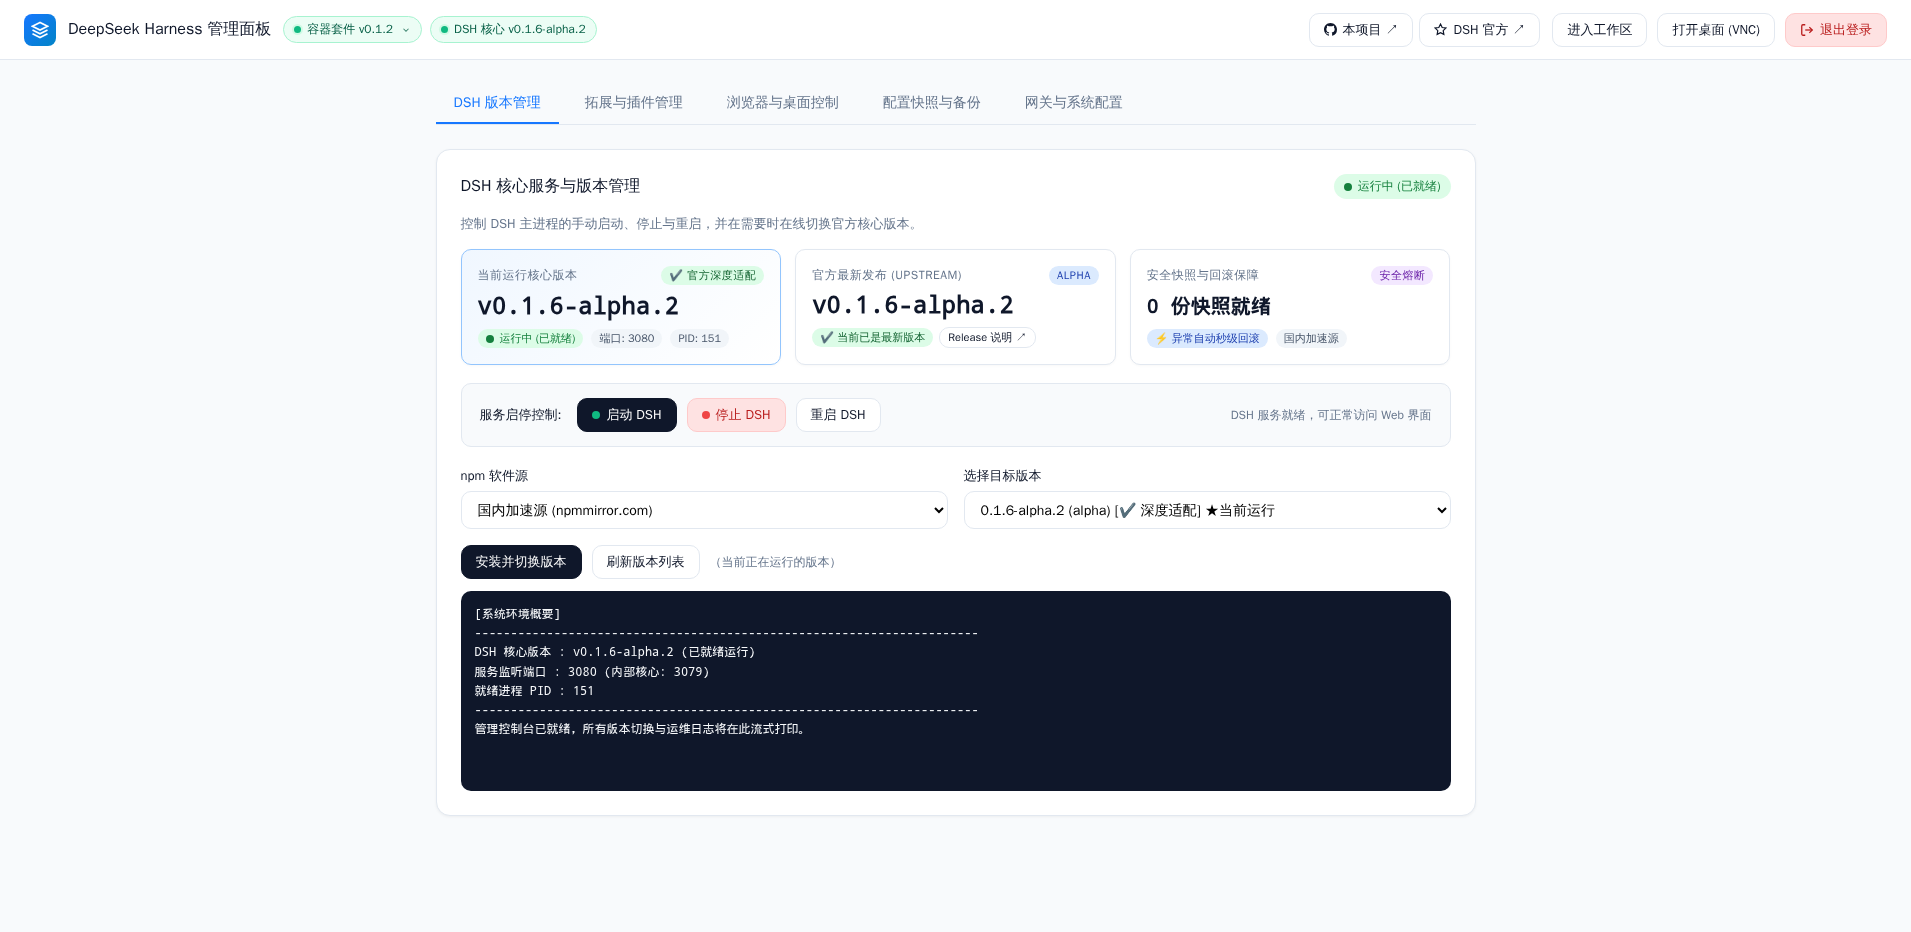
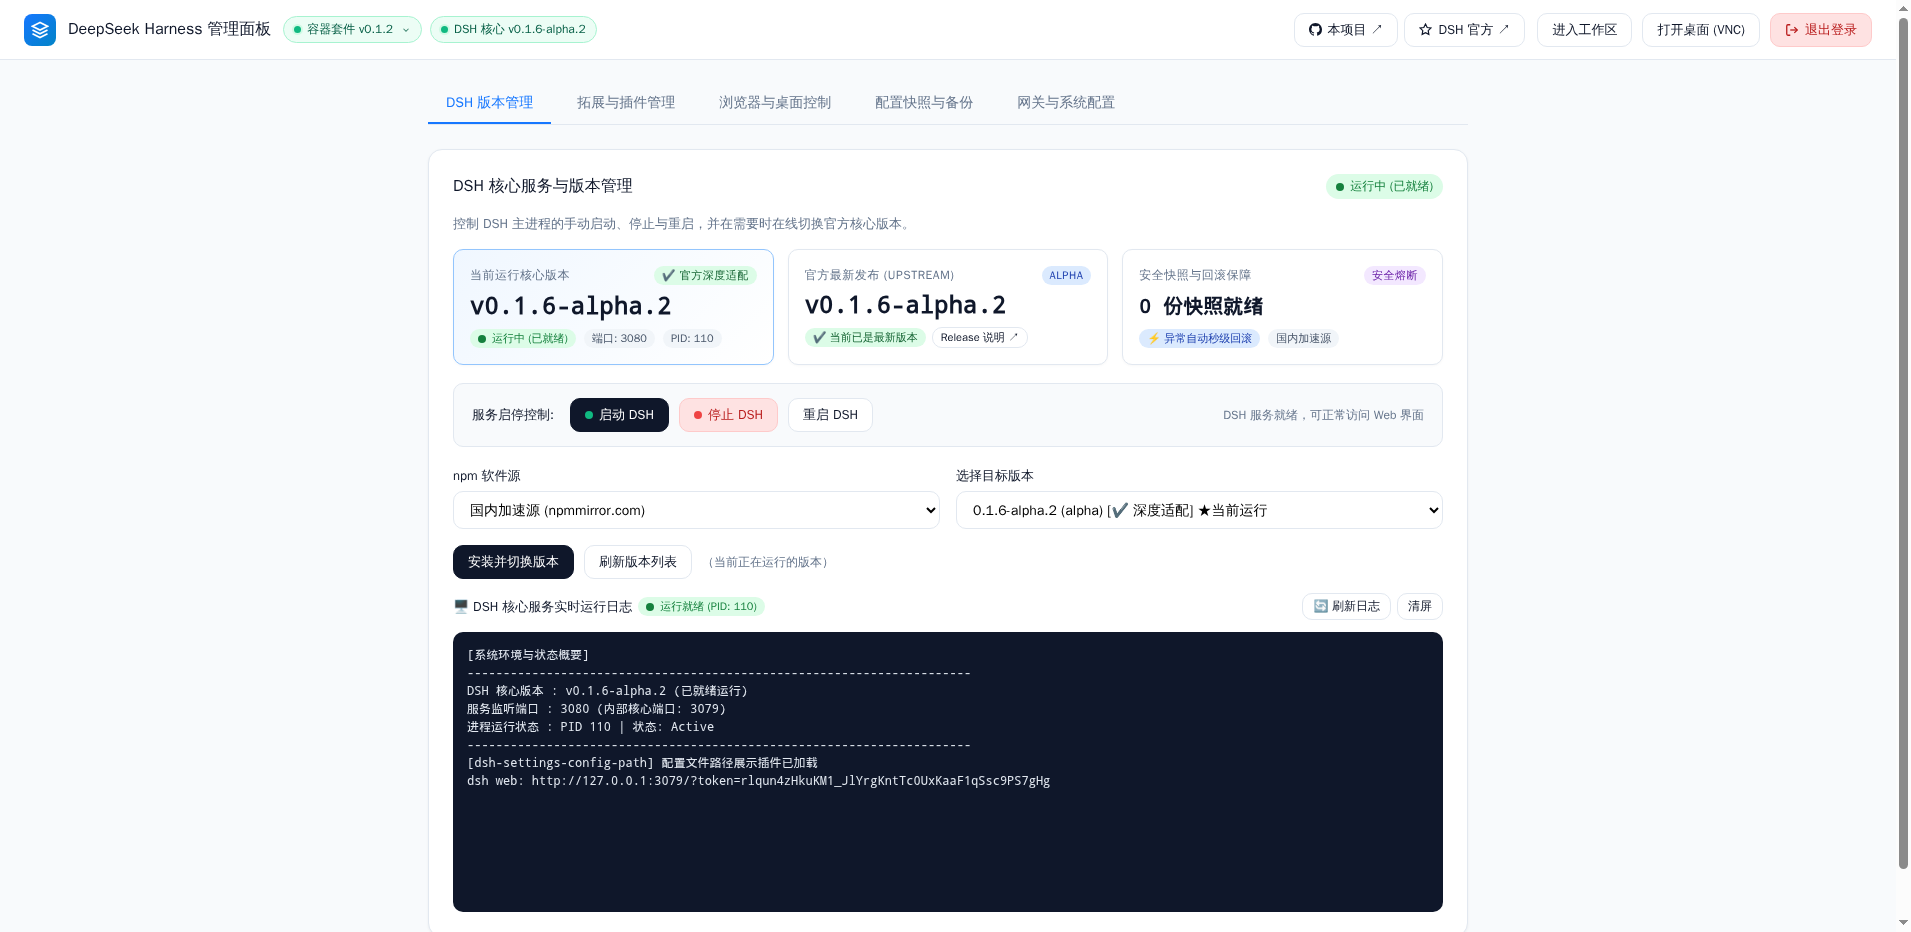
fix: add real-time DSH logs in admin, resolve container build install-scripts and refine modal layout with scrollbars

diff --git a/gateway/index.js b/gateway/index.js
@@ -101,11 +101,43 @@ const vncProxy = httpProxy.createProxyServer({
 dshProxy.on('error', (err, req, res) => {
   console.warn('[dsh-proxy] 上游连接等待中 (DSH 启动/停止阶段):', err.message);
   if (res && typeof res.writeHead === 'function' && !res.headersSent) {
-    const errorMsg = dshManager.manualStopped
-      ? 'DeepSeek Harness 服务当前处于手动停止状态。如需使用，请前往管理面板手动点击【启动 DSH】。'
-      : 'DeepSeek Harness 正在启动就绪中，请稍候数秒后刷新';
-    res.writeHead(502, { 'Content-Type': 'application/json; charset=utf-8' });
-    res.end(JSON.stringify({ ok: false, error: errorMsg }));
+    let errorMsg = 'DeepSeek Harness 正在启动就绪中，请稍候数秒后刷新';
+    if (dshManager.manualStopped) {
+      errorMsg = 'DeepSeek Harness 服务当前处于手动停止状态。如需使用，请前往管理面板手动点击【启动 DSH】。';
+    } else if (dshManager.lastExitInfo && !dshManager.proc) {
+      errorMsg = `DeepSeek Harness 启动异常退出 (代码: ${dshManager.lastExitInfo.code || -1})。请前往 /admin/ 查看详细日志排查。`;
+    }
+
+    const isHtml = (req.headers.accept || '').includes('text/html');
+    if (isHtml) {
+      res.writeHead(502, { 'Content-Type': 'text/html; charset=utf-8' });
+      res.end(`<!DOCTYPE html>
+<html>
+<head>
+  <meta charset="utf-8" />
+  <meta name="viewport" content="width=device-width, initial-scale=1" />
+  <meta http-equiv="refresh" content="5" />
+  <title>DeepSeek Harness - 启动就绪中</title>
+  <style>
+    body { font-family: -apple-system, sans-serif; background: #f8fafc; color: #0f172a; display: flex; align-items: center; justify-content: center; min-height: 100vh; margin: 0; }
+    .box { background: #ffffff; border: 1px solid #e2e8f0; border-radius: 12px; padding: 32px; max-width: 480px; box-shadow: 0 10px 25px -5px rgba(0,0,0,0.08); text-align: center; }
+    h2 { font-size: 18px; margin-bottom: 12px; color: #1677ff; }
+    p { font-size: 13px; color: #64748b; line-height: 1.6; margin-bottom: 20px; }
+    .btn { display: inline-block; padding: 8px 16px; border-radius: 8px; background: #0f172a; color: #ffffff; text-decoration: none; font-size: 13px; font-weight: 600; }
+  </style>
+</head>
+<body>
+  <div class="box">
+    <h2>⚡ DeepSeek Harness 启动就绪中</h2>
+    <p>${errorMsg}<br/>页面将在 5 秒后自动刷新检测...</p>
+    <a href="/admin/" class="btn">前往管理控制台查看实时日志 ↗</a>
+  </div>
+</body>
+</html>`);
+    } else {
+      res.writeHead(502, { 'Content-Type': 'application/json; charset=utf-8' });
+      res.end(JSON.stringify({ ok: false, error: errorMsg, exitInfo: dshManager.lastExitInfo }));
+    }
   }
 });
 
@@ -305,6 +337,20 @@ async function handleAdminApi(req, res, pathname, query) {
         }
       }
       return sendJson(res, 200, data);
+    }
+
+    // 2.1 DSH 实时日志与崩溃信息获取
+    if (subPath === '/api/dsh/logs' && req.method === 'GET') {
+      const count = Math.min(Number(query.get('lines')) || 100, 300);
+      return sendJson(res, 200, {
+        ok: true,
+        running: dshManager.proc !== null && dshManager.proc.exitCode === null,
+        ready: dshManager.ready,
+        pid: dshManager.proc ? dshManager.proc.pid : null,
+        manualStopped: !!dshManager.manualStopped,
+        exitInfo: dshManager.lastExitInfo,
+        recentLogs: dshManager.getRecentLogs(count)
+      });
     }
 
     // 3. 安装/切换 DSH 版本 (支持实时 SSE 流式推送详细日志)

diff --git a/gateway/dsh-manager.js b/gateway/dsh-manager.js
@@ -131,8 +131,24 @@ class DshManager {
       manualStopped: !!this.manualStopped,
       pid: running && this.proc ? this.proc.pid : null,
       startTime: this.startTime,
-      cachedVersions: this.getCachedVersions()
+      cachedVersions: this.getCachedVersions(),
+      lastExitInfo: this.lastExitInfo,
+      recentLogs: this.getRecentLogs(30)
     };
+  }
+
+  getRecentLogs(count = 150) {
+    if (this.recentLogs && this.recentLogs.length > 0) {
+      return this.recentLogs.slice(-count);
+    }
+    try {
+      if (fs.existsSync(DSH_WEB_LOG)) {
+        const content = fs.readFileSync(DSH_WEB_LOG, 'utf8');
+        const lines = content.split('\n').filter(Boolean);
+        return lines.slice(-count);
+      }
+    } catch {}
+    return [];
   }
 
   getCachedVersions() {
@@ -292,7 +308,10 @@ class DshManager {
       const env = {
         ...process.env,
         DSH_PORT: String(DSH_PORT),
-        PROXY_PORT: String(process.env.PROXY_PORT || 3080)
+        PROXY_PORT: String(process.env.PROXY_PORT || 3080),
+        NPM_CONFIG_REGISTRY: this.registry,
+        NPM_REGISTRY: this.registry,
+        PNPM_REGISTRY: this.registry
       };
       // 彻底剥离 NODE_ENV=production，恢复纯净开发环境，避免工作区 install 跳过 devDependencies
       delete env.NODE_ENV;
